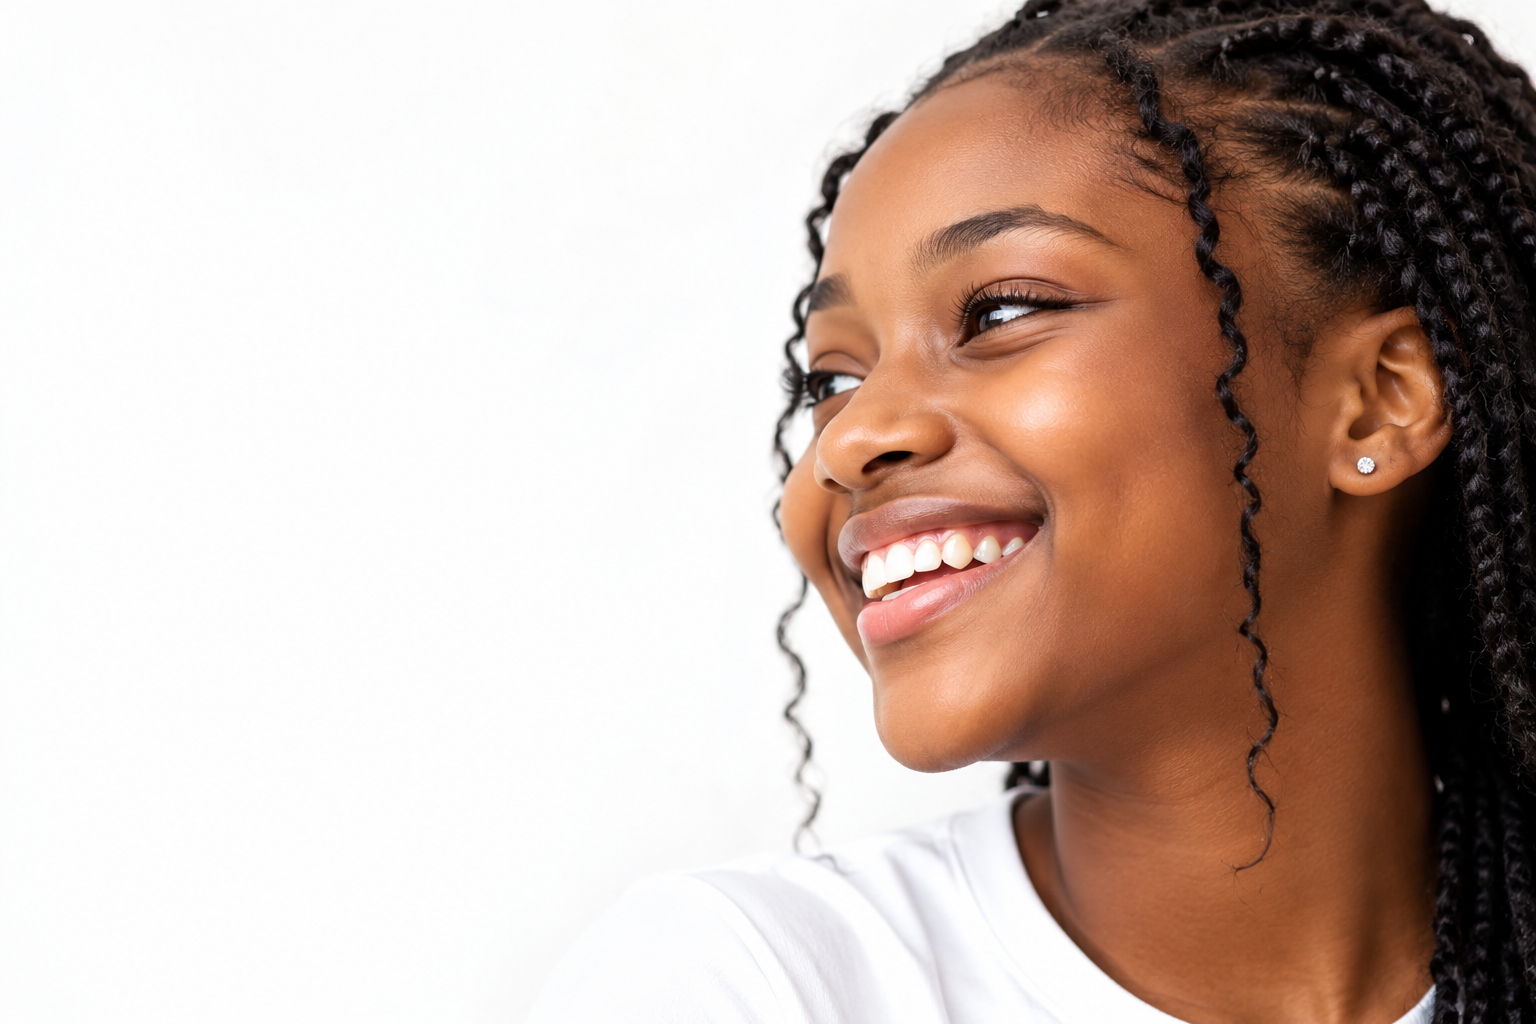
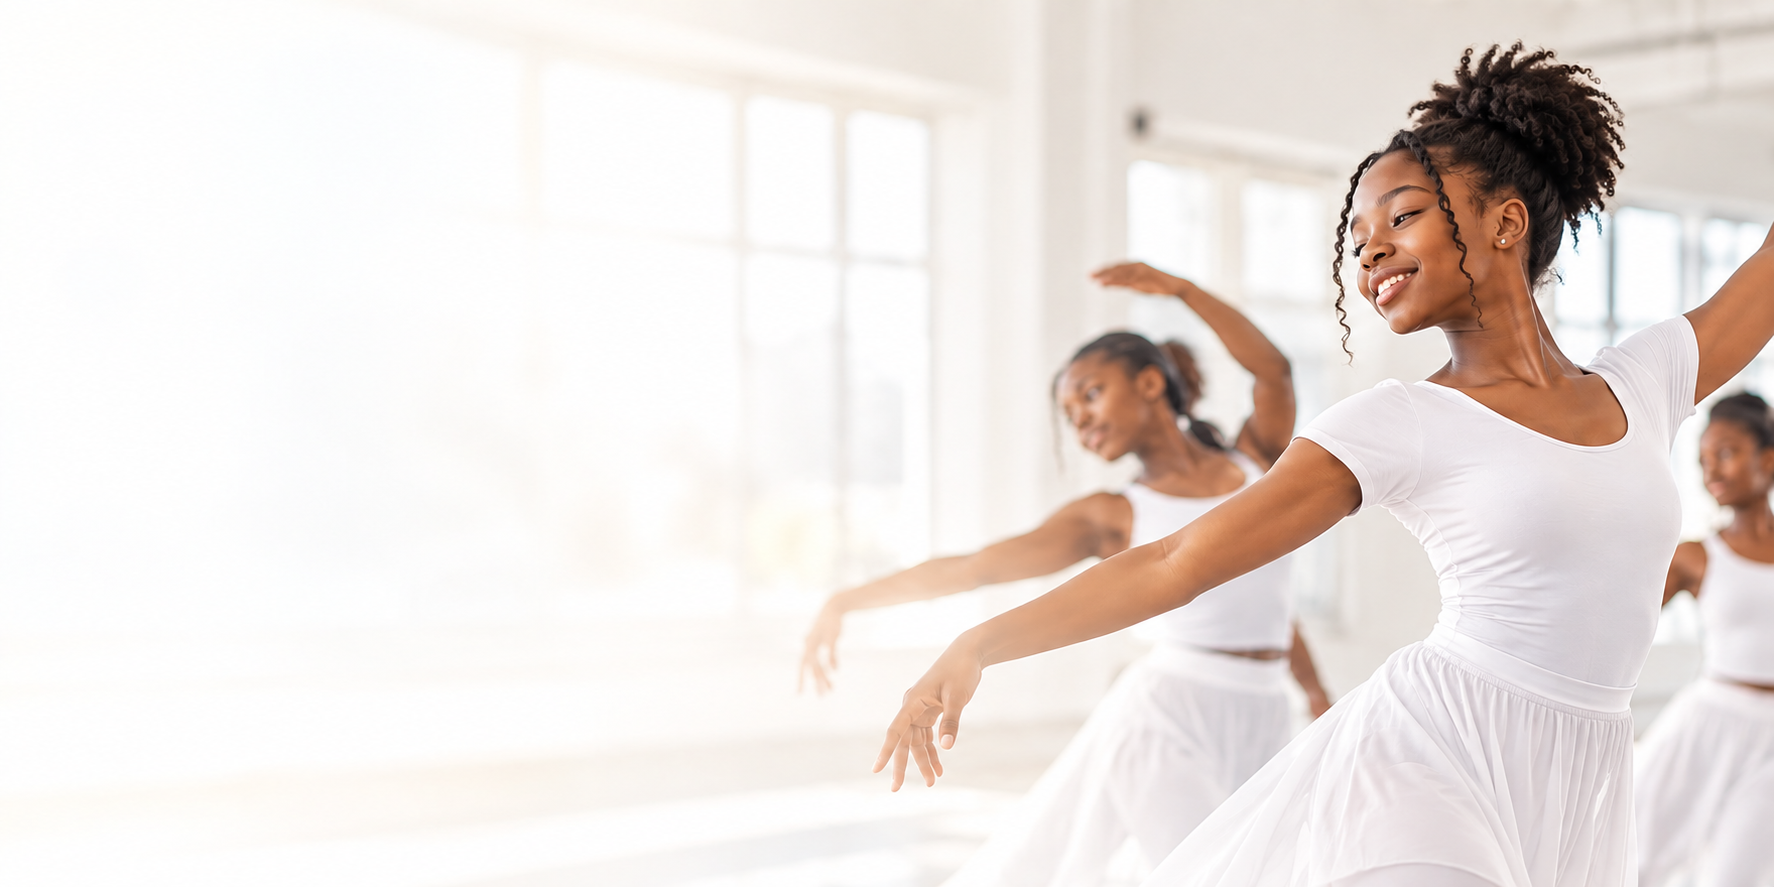
fix(donate): adjust background image blur and opacity for better text contrast

diff --git a/app/donate/page.js b/app/donate/page.js
@@ -171,16 +171,16 @@ export default function DonatePage() {
 
         <section id="where-it-goes" data-theme="light" className={`relative overflow-hidden ${SECTION}`}>
           {/* Full-bleed background photo behind the whole section. No scale-up (a tight crop already reads
-              large at this section's short, wide aspect) and a fuller blur so it sits back as a soft
-              backdrop rather than a sharp, oversized portrait, with a wash on top for text contrast. */}
+              large at this section's short, wide aspect) and a light blur so the photo stays recognizable while
+              still sitting back behind the copy, with a wash on top for text contrast. */}
           <div aria-hidden="true" className="absolute inset-0 -z-10">
             {/* eslint-disable-next-line @next/next/no-img-element */}
             <img
               src="/donate-where-It-goes.PNG"
               alt=""
-              className="h-full w-full object-cover blur-xl"
+              className="h-full w-full object-cover blur-sm"
             />
-            <div className="absolute inset-0 bg-brand-ivory/70" />
+            <div className="absolute inset-0 bg-brand-ivory/55" />
           </div>
           <div className={CONTAINER}>
             <RevealOnScroll className="grid items-start gap-10 lg:grid-cols-2 lg:gap-16">
